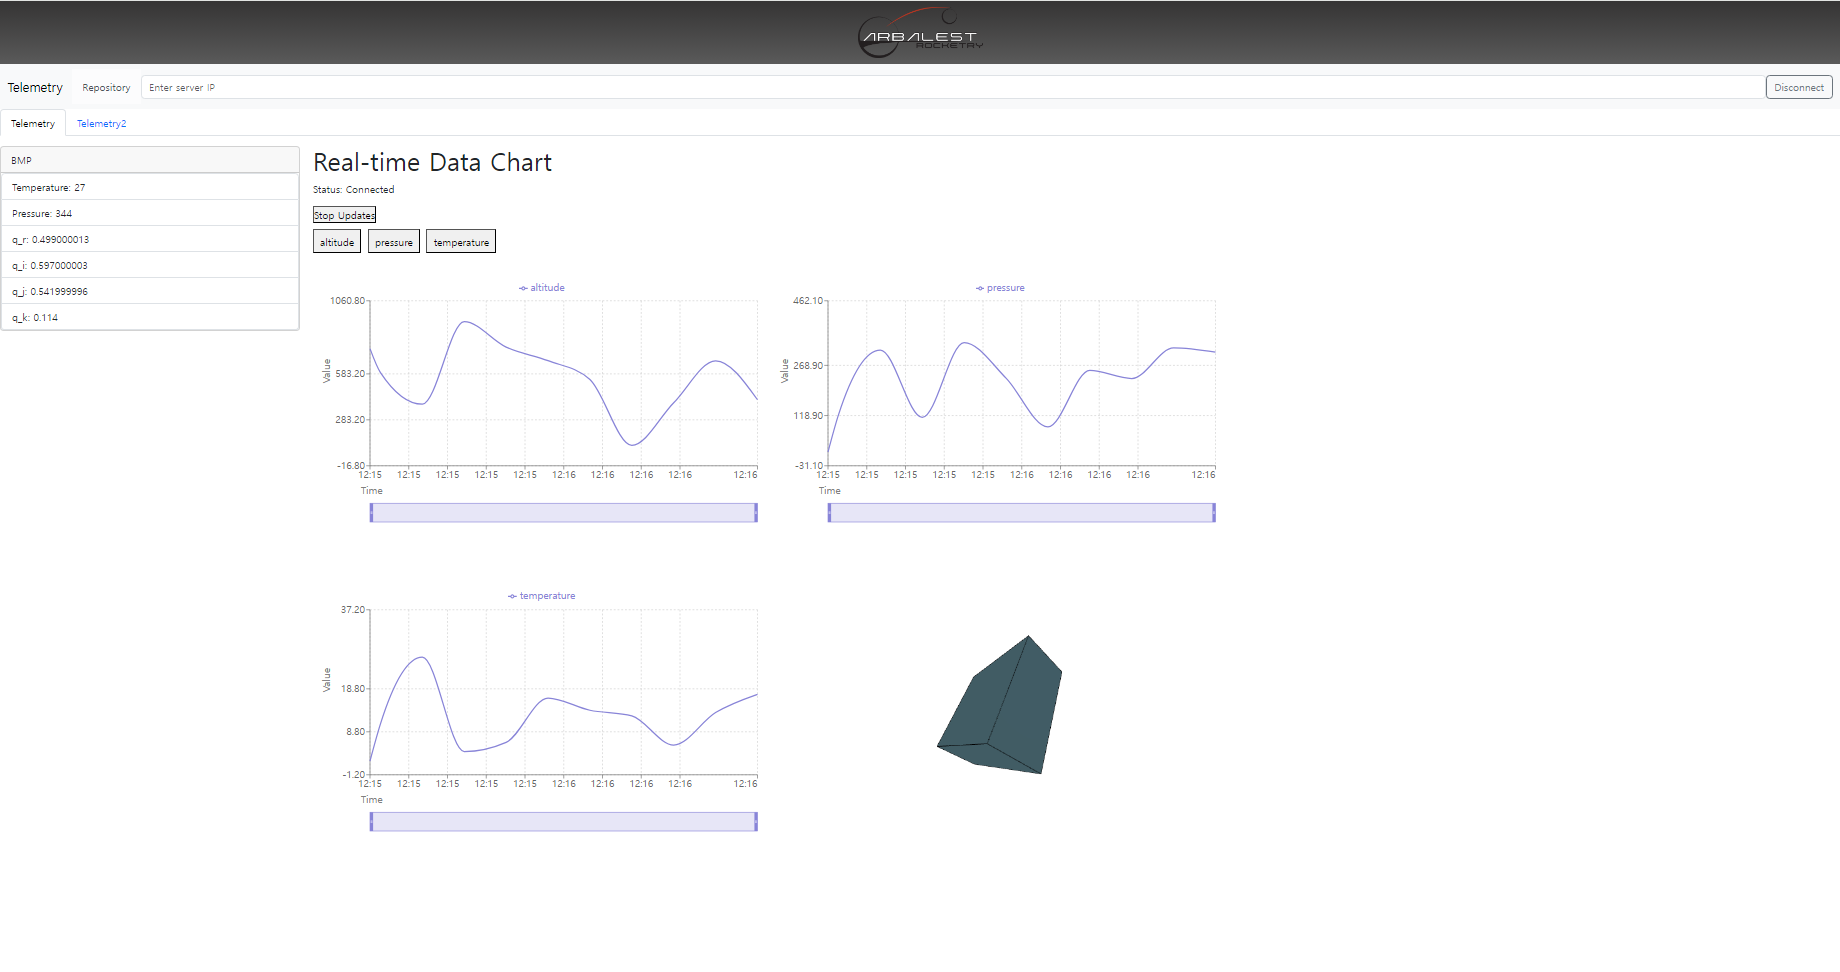
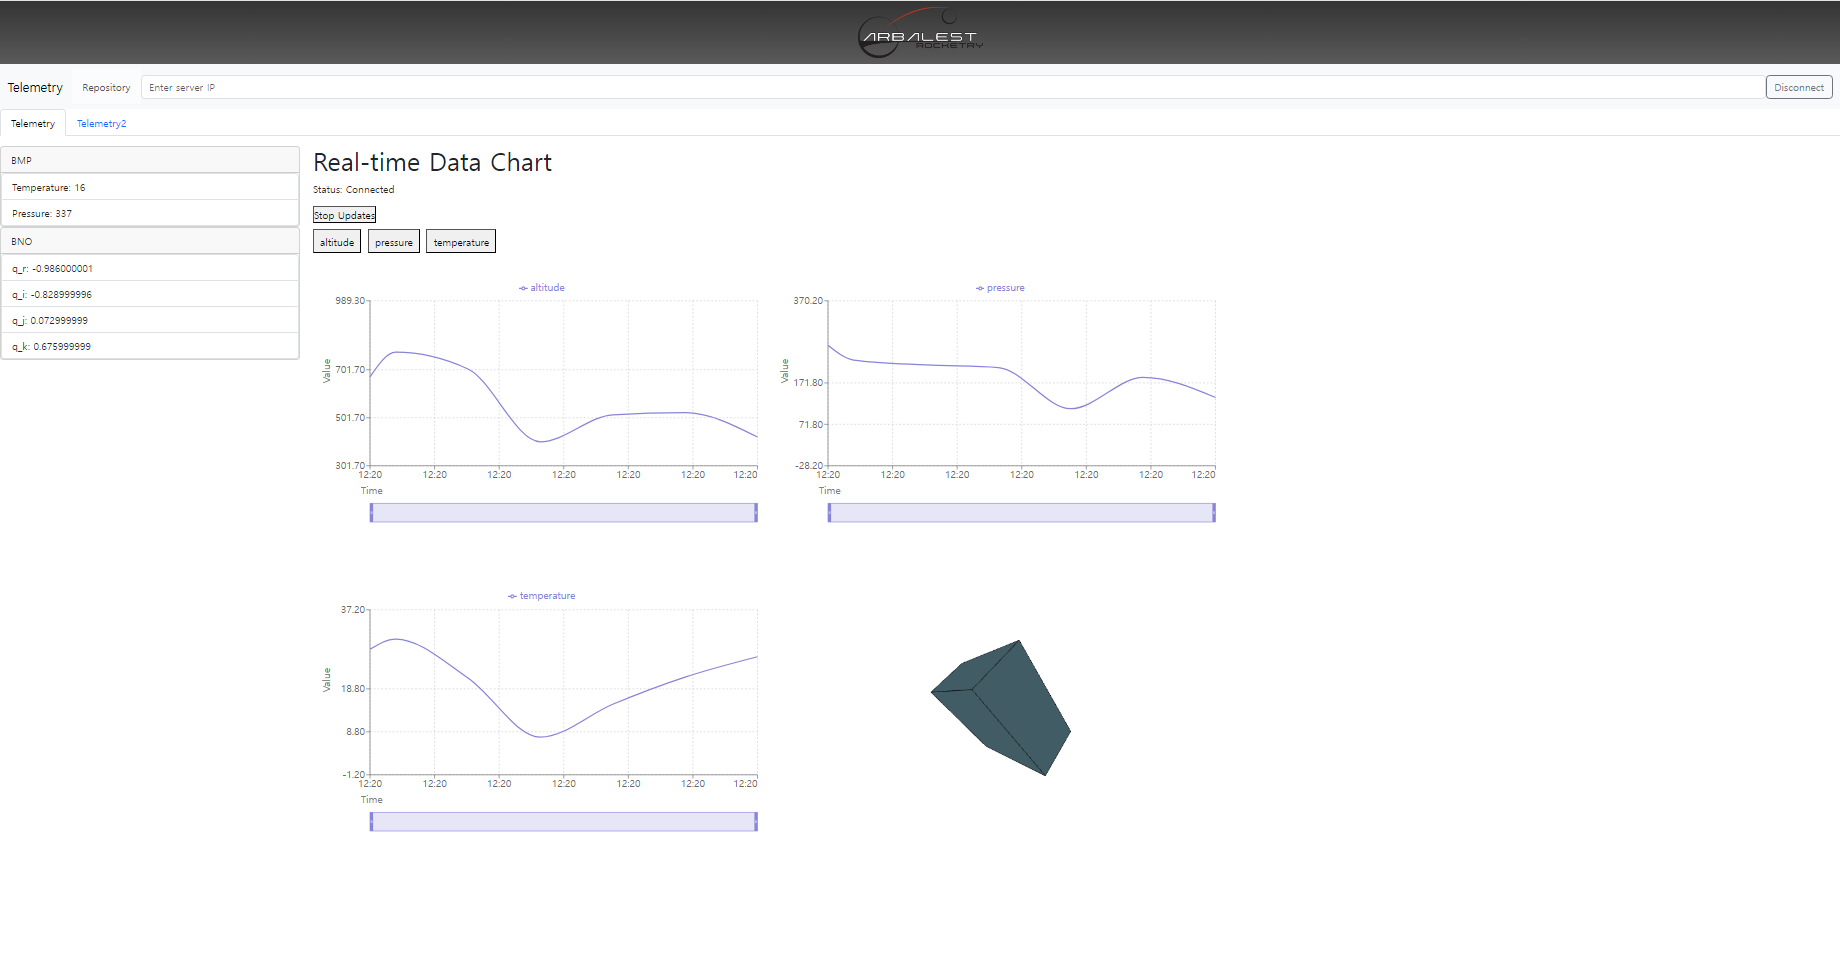
Update sample image

diff --git a/client/src/pages/RealTimeChart.js b/client/src/pages/RealTimeChart.js
@@ -68,12 +68,19 @@ export default function RealTimeChart() {
             <ListGroup>
               <ListGroup.Item>Temperature: {latestData.temperature || 'N/A'}</ListGroup.Item>
               <ListGroup.Item>Pressure: {latestData.pressure || 'N/A'}</ListGroup.Item>
-              <ListGroup.Item>q_r: {latestData.q_r || 'N/A'}</ListGroup.Item>
+            </ListGroup>
+          </Card>
+          <Card style={{ width: "100%" }}>
+            <Card.Header>BNO</Card.Header>
+            <ListGroup>
+            <ListGroup.Item>q_r: {latestData.q_r || 'N/A'}</ListGroup.Item>
               <ListGroup.Item>q_i: {latestData.q_i || 'N/A'}</ListGroup.Item>
               <ListGroup.Item>q_j: {latestData.q_j || 'N/A'}</ListGroup.Item>
               <ListGroup.Item>q_k: {latestData.q_k || 'N/A'}</ListGroup.Item>
             </ListGroup>
           </Card>
+
+
         </div>
         <div style={{ display: "flex", width: "100%", flexDirection: "column" }}>
           <div className="mt-20" style={{ width: "100%", display: "flex", flexDirection: "row" }}>
